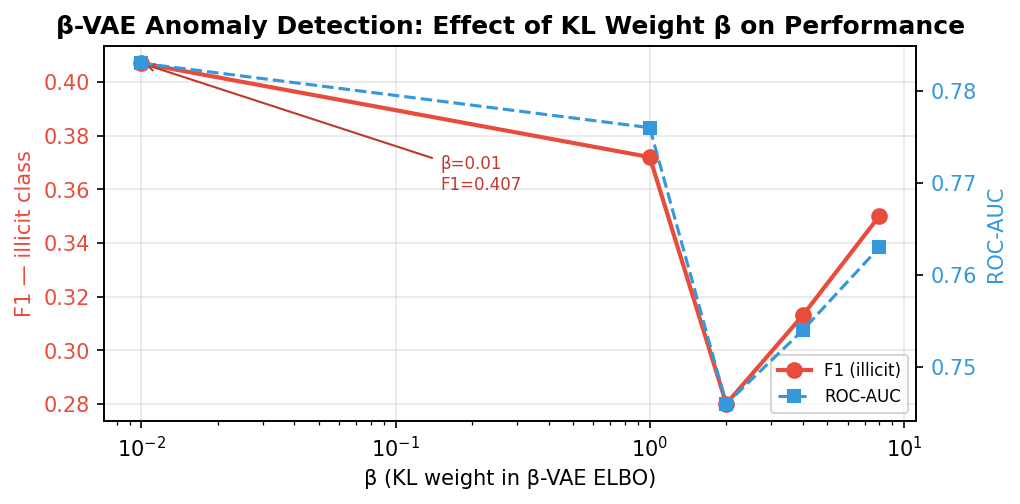
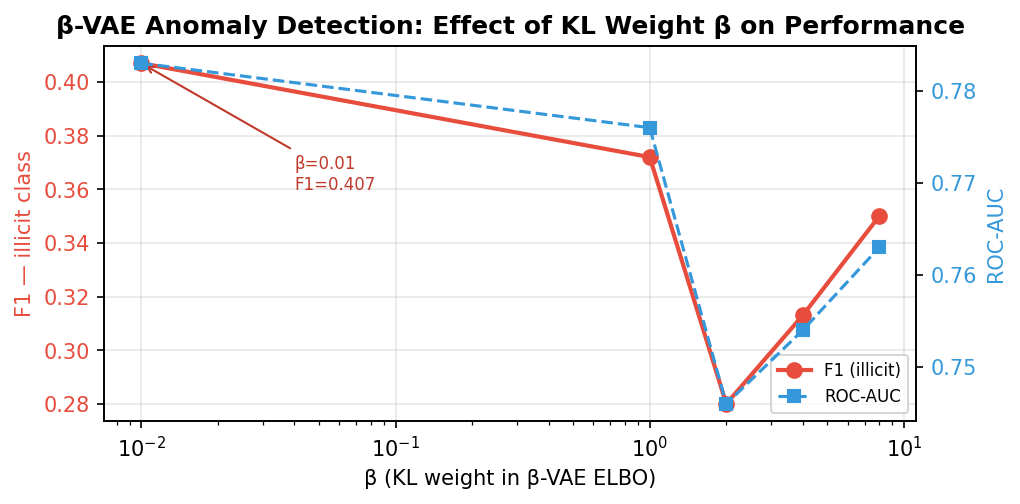
Adjust annotation positions in plots

diff --git a/scripts/new_plots.py b/scripts/new_plots.py
@@ -72,7 +72,8 @@ train_rate = per_step[per_step["time_step"] <= 34]["rate"].mean() * 100
 test_rate  = per_step[per_step["time_step"] >  34]["rate"].mean() * 100
 
 y_max = per_step["rate"].max() * 100
-text_y = y_max * 0.92   # near top of chart
+text_y_train = y_max * 0.92   # train label: near top of left zone (no legend conflict)
+text_y_test  = y_max * 0.62   # test label: ~1.5 cm lower — clears the top-right legend
 
 ax.axhline(train_rate, xmin=0,    xmax=34.5/49, color="#2980b9",
            lw=1.2, ls=":", alpha=0.7)
@@ -80,13 +81,13 @@ ax.axhline(test_rate,  xmin=34.5/49, xmax=1.0,  color="#e67e22",
            lw=1.2, ls=":", alpha=0.7)
 
 ax.annotate(f"Train avg\n{train_rate:.1f}%",
-            xy=(17, train_rate), xytext=(17, text_y),
+            xy=(17, train_rate), xytext=(17, text_y_train),
             fontsize=9, fontweight="bold", color="#2980b9",
             ha="center", va="top",
             arrowprops=dict(arrowstyle="-", color="#2980b9",
                             lw=1.0, linestyle="dotted"))
 ax.annotate(f"Test avg\n{test_rate:.1f}%",
-            xy=(42, test_rate), xytext=(42, text_y),
+            xy=(42, test_rate), xytext=(42, text_y_test),
             fontsize=9, fontweight="bold", color="#e67e22",
             ha="center", va="top",
             arrowprops=dict(arrowstyle="-", color="#e67e22",
@@ -122,7 +123,7 @@ ax2.plot(betas, aucs, "s--", color="#3498db", lw=1.5, ms=6, label="ROC-AUC")
 best_idx = f1s.index(max(f1s))
 ax1.annotate(f"β={betas[best_idx]}\nF1={f1s[best_idx]:.3f}",
              xy=(betas[best_idx], f1s[best_idx]),
-             xytext=(0.15, 0.36), fontsize=8, color="#c0392b",
+             xytext=(0.04, 0.36), fontsize=8, color="#c0392b",
              arrowprops=dict(arrowstyle="->", color="#c0392b", lw=1))
 
 ax1.set_xlabel("β (KL weight in β-VAE ELBO)")